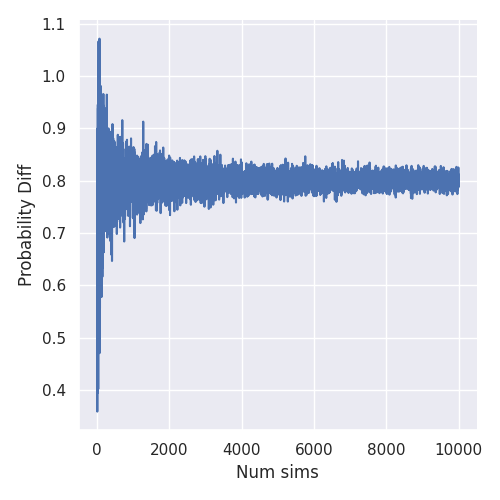
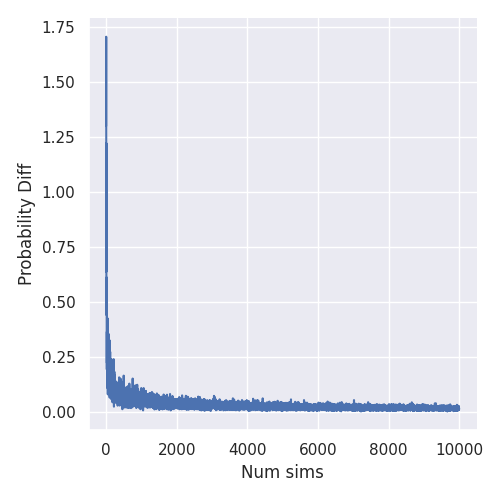
work

diff --git a/HW01/hw01/P5.py b/HW01/hw01/P5.py
@@ -23,15 +23,22 @@ for i in predicted:
     print(i[0],i[1])
 globalres=[]
 for i in range(1,10000):
-    res=[]
     charchoice=np.random.choice(np.arange(charachtersp.size),size=i,p=charachtersp)
     weaponl=vfunc(charchoice)
     resultstr=vfunc2(charchoice,weaponl)
     outcome,counts=np.unique(resultstr,return_counts=True)
     counts=vfunc3(counts,numsim=i)
     diff=0
-    for e in range(counts.size):
-        diff+=abs(predicted[e][1]-counts[e])
+    for e in range(len(predicted)):
+        index=-1
+        for r in range(len(outcome)):
+            if outcome[r]==predicted[e][0]:
+                index=r
+                break
+        if index==-1:
+            diff+=predicted[e][1]
+            continue
+        diff+=abs(predicted[e][1]-counts[r])
     globalres.append((i,diff))
 df=pd.DataFrame(globalres,columns=["Num sims","Probability Diff"])
 sns.set_theme()
